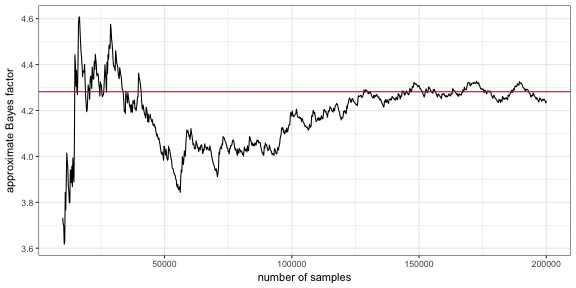
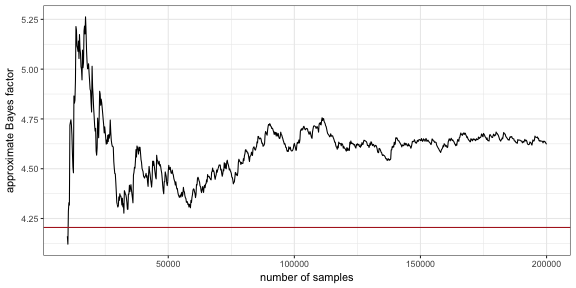
blog fixes

diff --git a/_posts/2017-07-07-BF_computation.md b/_posts/2017-07-07-BF_computation.md
@@ -36,7 +36,7 @@ If the Bayes factor is close to 1, then data $$D$$ does little to change our rel
  
 ### Marginal likelihoods
  
-While Bayes factors are conceptually appealing, their computation can still be very complex. The quantity $$P(D \mid M_i)$$ is often called the **marginal likelihood**. (It is also sometimes called the _evidence_ but this usage of the term may be misleading because in natural language we usually refer to observational data as 'evidence'.) This term looks inoccuous but it is not. It can be a viciously complicated integral, because the likelihood of observation $$D$$ under the model $$M_i$$ must quantify over all possible parameters of that model, weighed as usual by their priors:
+While Bayes factors are conceptually appealing, their computation can still be very complex. The quantity $$P(D \mid M_i)$$ is often called the **marginal likelihood**. (It is also sometimes called the _evidence_ but this usage of the term may be misleading because in natural language we usually refer to observational data as 'evidence'; rather the Bayes factor $$\frac{P(D \mid M_i)}{P(D \mid \neg M_i)}$$ is an plausible formalization of 'evidence' in favor of a model.) This term looks inoccuous but it is not. It can be a viciously complicated integral, because the likelihood of observation $$D$$ under the model $$M_i$$ must quantify over all possible parameters of that model, weighed as usual by their priors:
  
 $$ P(D \mid M_i) = \int P(\theta) \ P(D \mid \theta, M_i) \ \text{d}\theta$$ 
  
@@ -238,7 +238,7 @@ paste0("Approximate BF in favor of complex model (Savage-Dickey): ",
 
 
 {% highlight text %}
-## [1] "Approximate BF in favor of complex model (Savage-Dickey): 4.282"
+## [1] "Approximate BF in favor of complex model (Savage-Dickey): 4.205"
 {% endhighlight %}
  
 In sum, the Savage-Dickey method is an elegant and practical method for computing (or approximating, if based on sampling) Bayes factors for properly nested models. It is particularly useful when the nested model fixes just a small number of parameters that are free in the nesting model. The method needs to go through two bottlenecks that can introduce imprecision in an estimate: first, we may have to rely on posterior samples; second, we may have to rely an numerical approximation of a point-density from the samples.
@@ -342,7 +342,7 @@ paste0("Approximate BF in favor of complex model (naive MC): ",
 
 
 {% highlight text %}
-## [1] "Approximate BF in favor of complex model (naive MC): 4.467"
+## [1] "Approximate BF in favor of complex model (naive MC): 4.534"
 {% endhighlight %}
  
 It is diagnostic to see the temporal development of the Bayes factor approximation as more and more samples are taken. This is plotted here, comparing it also to the result from the Savage-Dickey method (the red line).
@@ -449,7 +449,7 @@ paste0("BF in favor of complex model (transcendental): ",
 
 
 {% highlight text %}
-## [1] "BF in favor of complex model (transcendental): 4.544"
+## [1] "BF in favor of complex model (transcendental): 5.307"
 {% endhighlight %}
  
 This method of estimation can be imprecise, especially when one model is much better than another. The intuitive reason is that whenever the MCMC chain sets $$m=i$$, the parameters for model $$j$$ are free to meander wherever they like. This, in turn, makes it less likely that a proposal with $$m=j$$ is accepted. One possible solution to this is to use so-called pseudo-priors: set the priors for parameters of model $$j$$ to some function that resembles their posterior distribution when $$m=i$$, but use the actual priors when $$m=j$$.
@@ -478,7 +478,7 @@ Since the posterior of $$\alpha$$ is a distribution which satisfies $$ \int P(\a
 $$
 \begin{align*}
 \frac{P( M_i \mid D )}{P(M_j \mid D)} & = \frac{P(M_i \mid D)}{P(M_{\text{super}} \mid D)} \frac{P(M_{\text{super}} \mid D)}{P(M_j  \mid D)} \\
-& = \frac{P(\alpha = 0 \mid D, M_{\text{super}})}{P(\alpha_0 \mid D, M_{\text{super}})} \frac{P(\alpha_0 \mid D, M_{\text{super}})} {P(\alpha = 1  \mid D, M_{\text{super}})} \\
+& = \frac{P(\alpha = 0 \mid D, M_{\text{super}})}{P(\alpha = 0\mid D, M_{\text{super}})} \frac{P(\alpha = 0 \mid D, M_{\text{super}})} {P(\alpha = 1  \mid D, M_{\text{super}})} \\
 & = \frac{P(\alpha = 0 \mid D, M_{\text{super}})}{P(\alpha = 1  \mid D, M_{\text{super}})} \\
 & = \frac{c}{m+c} = \frac{c}{2 - c}\,.
 \end{align*} 
@@ -592,7 +592,7 @@ paste0("BF in favor of complex model (supermodels): ",
 
 
 {% highlight text %}
-## [1] "BF in favor of complex model (supermodels): 4.197"
+## [1] "BF in favor of complex model (supermodels): 3.606"
 {% endhighlight %}
  
  
